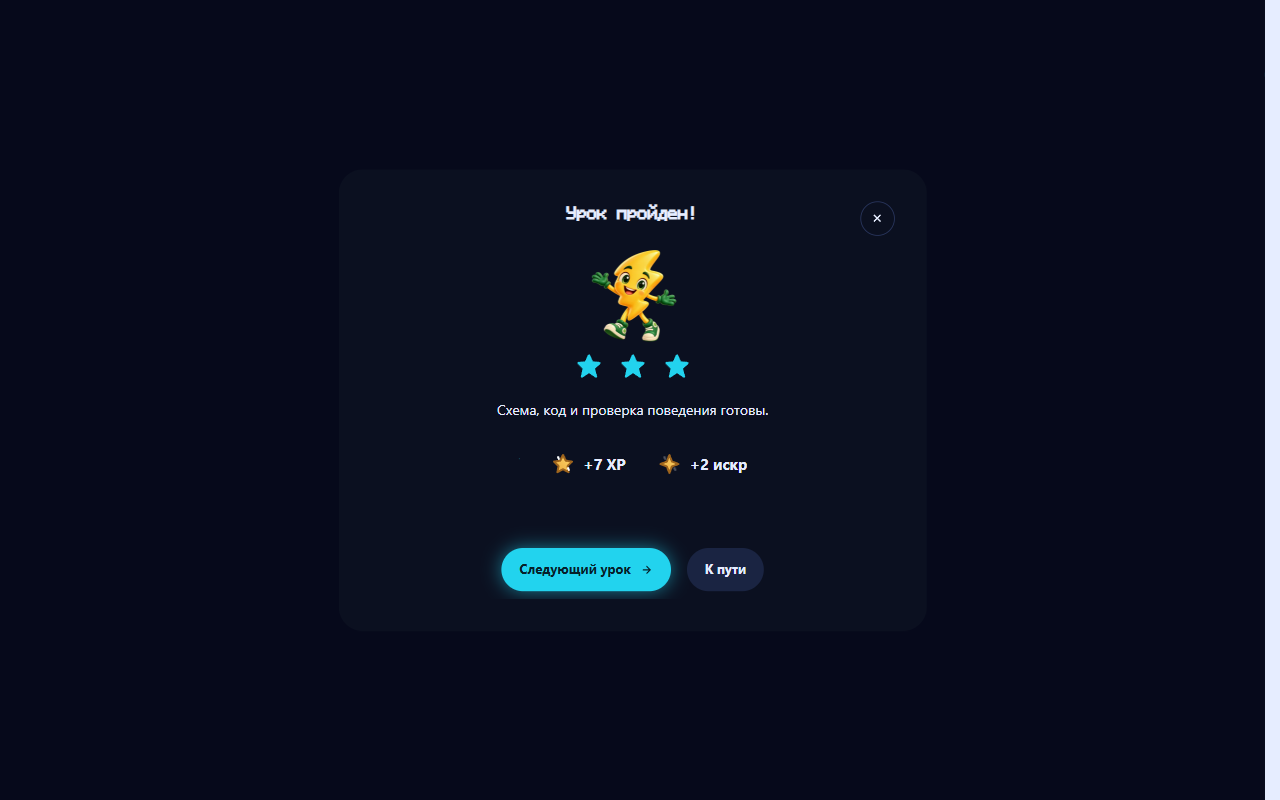
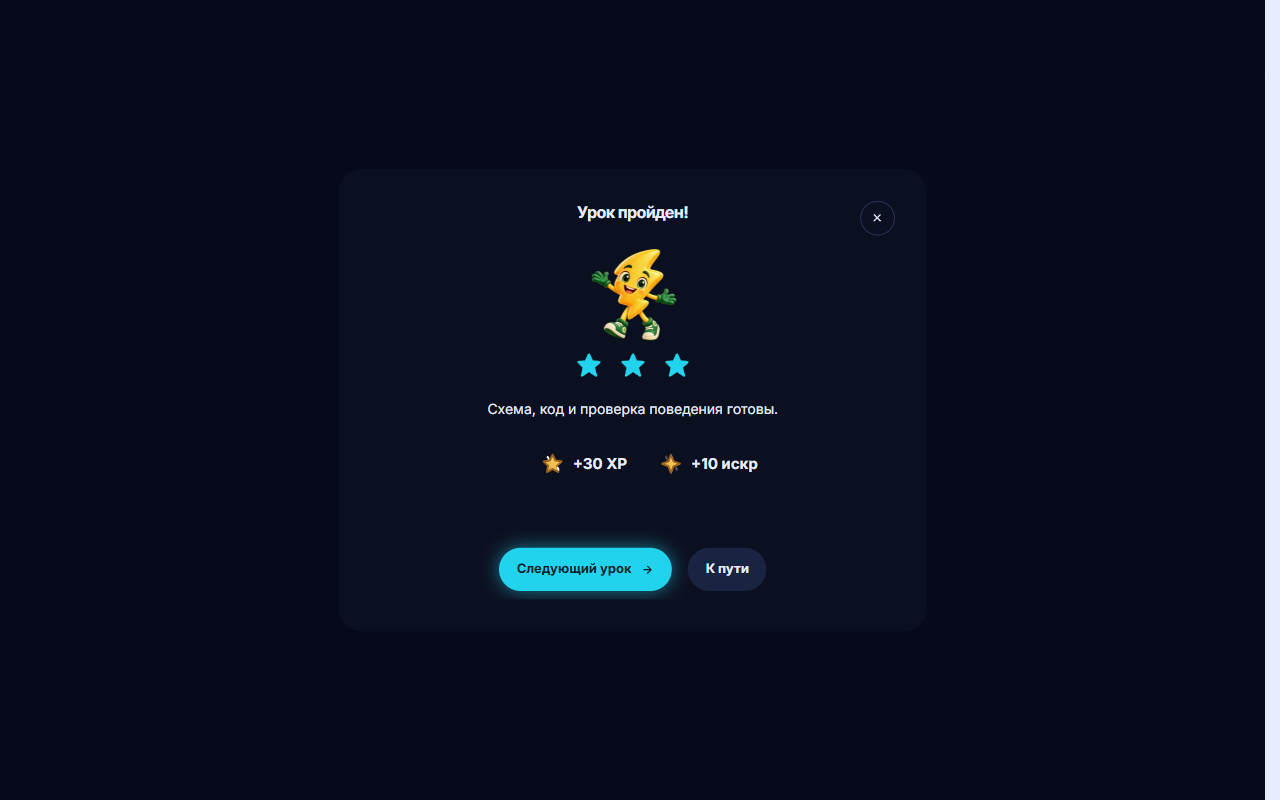
feat(desktop): pixel font only for main headings, SF Pro/Inter elsewhere
Text face uses SF Pro when installed (not shipped: Apple licence),
falling back to the bundled Inter; lesson fonts follow the same stack.

diff --git a/apps/desktop/e2e/learning.spec.ts b/apps/desktop/e2e/learning.spec.ts
@@ -103,6 +103,20 @@ for (const theme of ["dark", "light"] as const)
       ).toBeDisabled();
       await page.screenshot({ path: join(dir, "lesson-video.png") });
       await contrast(page, "video", low);
+      // Pixel face only for the lesson's main title; the rest is the text
+      // face (SF Pro when installed, otherwise Inter).
+      const lessonFonts = await page.evaluate(() => ({
+        title: getComputedStyle(document.querySelector(".cabinet h1")!)
+          .fontFamily,
+        header: getComputedStyle(document.querySelector(".flow-course-title")!)
+          .fontFamily,
+        body: getComputedStyle(document.querySelector(".cabinet p")!)
+          .fontFamily,
+      }));
+      expect(lessonFonts.title).toContain("Monocraft");
+      expect(lessonFonts.header).not.toContain("Monocraft");
+      expect(lessonFonts.header).toMatch(/^"SF Pro Text"/);
+      expect(lessonFonts.body).toMatch(/^"SF Pro Text"/);
       await page
         .getByRole("button", { name: "Я посмотрел", exact: true })
         .click();
@@ -159,6 +173,11 @@ for (const theme of ["dark", "light"] as const)
         .getByRole("heading", { name: /Привет, Алия!/ })
         .evaluate((h) => getComputedStyle(h).fontFamily);
       expect(font).toContain("Monocraft");
+      const tileFont = await page
+        .getByRole("heading", { name: "Обучение" })
+        .evaluate((h) => getComputedStyle(h).fontFamily);
+      expect(tileFont).toMatch(/^"SF Pro Text"/);
+      expect(tileFont).not.toContain("Monocraft");
       await page.screenshot({ path: join(dir, "menu-after-lesson.png") });
 
       // Progress reached the account through the site's own RPC.

diff --git a/apps/desktop/src/renderer/styles.css b/apps/desktop/src/renderer/styles.css
@@ -36,7 +36,11 @@
   --radius: 10px;
   --text-scale: 1;
   --font-head: "Monocraft", ui-monospace, monospace;
-  --font-body: "Inter", system-ui, sans-serif;
+  /* Pixel face only for the main headings; everything else uses SF Pro when
+     it is installed on the computer (the app does not ship it: Apple's
+     licence allows it only on Apple platforms), otherwise the bundled Inter. */
+  --font-body:
+    "SF Pro Text", "SF Pro Display", "SF Pro", "Inter", system-ui, sans-serif;
   color-scheme: dark;
 }
 
@@ -81,11 +85,16 @@ body {
     linear-gradient(var(--grid-line) 1px, transparent 1px) 0 0 / 100% 28px;
 }
 h1,
-h2,
 .logo {
   font-family: var(--font-head);
   font-weight: 400;
   letter-spacing: 0.02em;
+  margin: 0;
+}
+h2 {
+  font-family: var(--font-body);
+  font-weight: 700;
+  letter-spacing: -0.01em;
   margin: 0;
 }
 h1 {

diff --git a/apps/desktop/src/renderer/learning/learning.css b/apps/desktop/src/renderer/learning/learning.css
@@ -142,8 +142,16 @@
 
 :root:has(.learning-area) {
   --shadow-card: var(--shadow-card-app);
-  /* Headings in the pixel display face of the theme. */
-  --font-manrope: "Monocraft";
+  /* Site fonts map to the app's text face (SF Pro if installed, else
+     Inter); the pixel face is kept for the lesson's main title below. */
+  --font-manrope: var(--font-body);
+  --font-inter: var(--font-body);
+  --font-geist-sans: var(--font-body);
+}
+:root:has(.learning-area) .cabinet h1 {
+  font-family: var(--font-head);
+  font-weight: 400;
+  letter-spacing: 0.02em;
 }
 :root:has(.learning-area) body {
   background: var(--color-bg)

diff --git a/docs/progress.md b/docs/progress.md
@@ -628,3 +628,7 @@ Epidemic Sound (тариф Free) не разрешает встраивание 
 ## 11.11.2026 — светлая тема приложения для ПК
 
 Тема «Как в Windows» (по умолчанию) / «Светлая» / «Тёмная», применяется до первой отрисовки, рамка окна через nativeTheme. Светлая палитра с контрастом ≥ 4.52:1, уроки перекрашены без инверсии. E2E 7/7 (урок 1 в обеих темах с axe contrast), unit 12/12, корневые проверки зелёные. Смена темы Windows на лету автотестом не проверялась.
+
+## 11.11.2026 — шрифты приложения для ПК
+
+Monocraft — только логотип, заголовки экранов и главный заголовок урока; остальной текст — SF Pro, если установлен в системе (не поставляется: лицензия Apple), иначе Inter. E2E 7/7 с проверкой шрифтов, корневые проверки зелёные. На этом ПК SF Pro не установлен.
